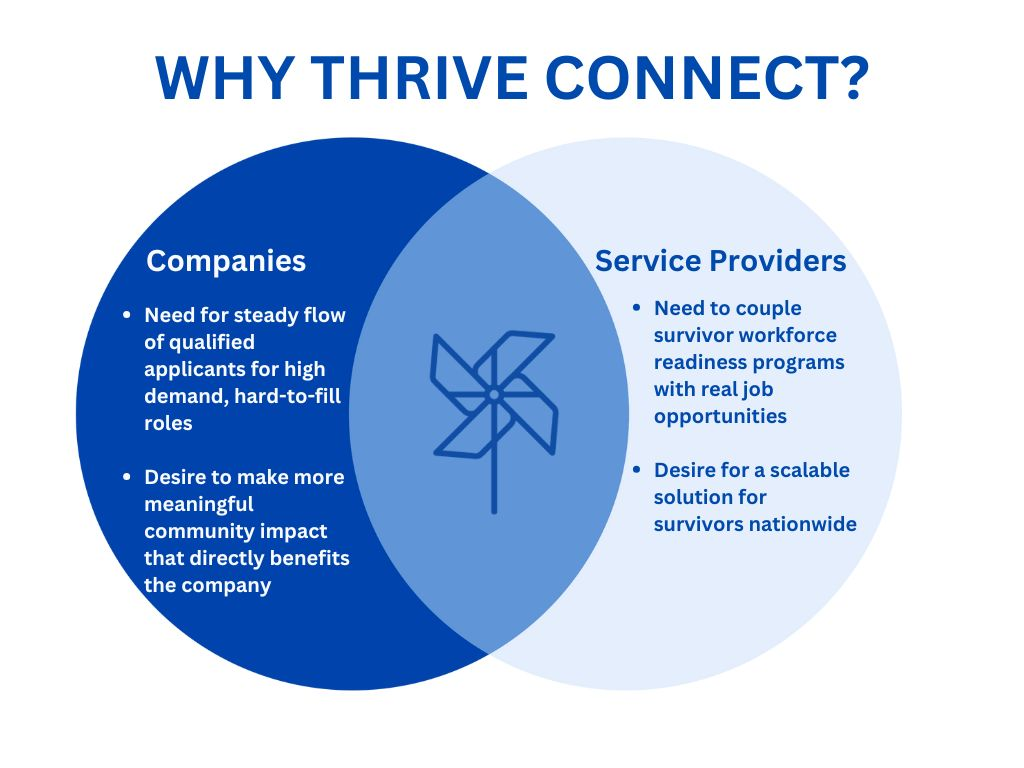
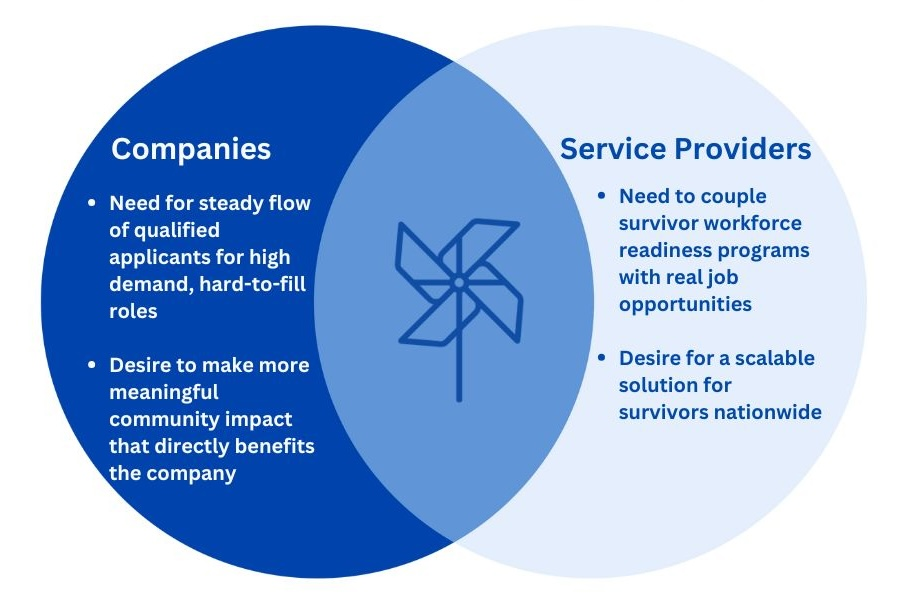
Updates to order of layout

diff --git a/src/pages/HomePage.tsx b/src/pages/HomePage.tsx
@@ -182,6 +182,68 @@ const HomePage: React.FC = () => {
         </div>
       </section>
 
+      {/* Value Prop Diagram Statement Section */}
+      <section id="valueprop" className="py-20 bg-gray-50">
+        <div className="container mx-auto px-4 md:px-6">
+          <motion.div 
+            className="max-w-4xl mx-auto text-center"
+            initial={{ opacity: 0, y: 20 }}
+            whileInView={{ opacity: 1, y: 0 }}
+            viewport={{ once: true, amount: 0.3 }}
+            transition={{ duration: 0.7 }}
+          >
+            <h2 className="text-3xl md:text-4xl font-bold mb-8 bg-gradient-to-r from-primary-600 to-secondary-500 bg-clip-text text-transparent">
+              Why Thrive Connect?
+            </h2>
+            <div className="flex items-center justify-center">
+              <img src={VennDiagram} alt="Thrive Connect Venn Diagram" style={{maxWidth:"500px"}}/>
+            </div>
+          </motion.div>
+        </div>
+      </section>
+
+      {/* Collective Impact Initiative Section */}
+      <section className="py-20 bg-white">
+        <div className="container mx-auto px-4 md:px-6">
+          <div className="max-w-4xl mx-auto">
+            <motion.div
+              initial={{ opacity: 0, y: 20 }}
+              whileInView={{ opacity: 1, y: 0 }}
+              viewport={{ once: true, amount: 0.3 }}
+              transition={{ duration: 0.7 }}
+              className="text-center mb-12"
+            >
+              <h2 className="text-3xl md:text-4xl font-bold mb-6 bg-gradient-to-r from-primary-600 to-secondary-500 bg-clip-text text-transparent">
+                Collective Impact Initiative
+              </h2>
+            </motion.div>
+
+            <motion.div
+              className="bg-gray-50 rounded-xl p-8 shadow-md"
+              initial={{ opacity: 0, y: 20 }}
+              whileInView={{ opacity: 1, y: 0 }}
+              viewport={{ once: true, amount: 0.3 }}
+              transition={{ duration: 0.7, delay: 0.2 }}
+            >
+              <p className="text-gray-600 text-lg leading-relaxed mb-6">
+                Our Collective Impact Initiative brings together leading nonprofit organizations, corporate partners, and technology solutions to create a comprehensive ecosystem for survivor employment. By combining our unique strengths and expertise, we're addressing the complex challenges that survivors face when transitioning to meaningful careers.
+              </p>
+              
+              <p className="text-gray-600 text-lg leading-relaxed mb-6">
+                This collaborative approach ensures that survivors receive holistic support - from initial job readiness training through long-term career advancement - while providing companies with the framework and resources they need to connect successfully with non-traditional candidates.
+              </p>
+
+              <div className="bg-primary-50 rounded-lg p-6">
+                <h3 className="text-xl font-bold text-primary-800 mb-3">Coming Soon</h3>
+                <p className="text-primary-700">
+                  We're currently developing comprehensive metrics and milestones to track our collective impact. Future updates will include detailed goals, success stories, and opportunities for additional investment and partnership. Stay tuned for exciting developments as we launch our pilot program in 2025.
+                </p>
+              </div>
+            </motion.div>
+          </div>
+        </div>
+      </section>
+
       {/* About Us - Backbone Organizations Section */}
       <section id="about" className="py-20 bg-gray-50">
         <div className="container mx-auto px-4 md:px-6">
@@ -242,7 +304,7 @@ const HomePage: React.FC = () => {
         </div>
       </section>
 
-             {/* Corporate Partners Section */}
+      {/* Corporate Partners Section */}
       <section className="py-20 bg-white">
         <div className="container mx-auto px-4 md:px-6">
           <motion.div
@@ -261,9 +323,6 @@ const HomePage: React.FC = () => {
             <p className="text-gray-600 text-lg max-w-3xl mx-auto">
               Forward-thinking companies committed to creating meaningful career opportunities for survivors.
             </p>
-             <div className="flex items-center justify-center mb-4">
-              <img src={VennDiagram} alt="Thrive Connect Venn Diagram" style={{maxWidth:"500px"}}/>
-            </div>
           </motion.div>
            {/* <div className="grid grid-cols-1 lg:grid-cols-3 gap-8">
             {corporatePartners.map((org, index) => (
@@ -325,47 +384,7 @@ const HomePage: React.FC = () => {
         </div>
       </section>
 
-      {/* Collective Impact Initiative Section */}
-      <section className="py-20 bg-white">
-        <div className="container mx-auto px-4 md:px-6">
-          <div className="max-w-4xl mx-auto">
-            <motion.div
-              initial={{ opacity: 0, y: 20 }}
-              whileInView={{ opacity: 1, y: 0 }}
-              viewport={{ once: true, amount: 0.3 }}
-              transition={{ duration: 0.7 }}
-              className="text-center mb-12"
-            >
-              <h2 className="text-3xl md:text-4xl font-bold mb-6 bg-gradient-to-r from-primary-600 to-secondary-500 bg-clip-text text-transparent">
-                Collective Impact Initiative
-              </h2>
-            </motion.div>
-
-            <motion.div
-              className="bg-gray-50 rounded-xl p-8 shadow-md"
-              initial={{ opacity: 0, y: 20 }}
-              whileInView={{ opacity: 1, y: 0 }}
-              viewport={{ once: true, amount: 0.3 }}
-              transition={{ duration: 0.7, delay: 0.2 }}
-            >
-              <p className="text-gray-600 text-lg leading-relaxed mb-6">
-                Our Collective Impact Initiative brings together leading nonprofit organizations, corporate partners, and technology solutions to create a comprehensive ecosystem for survivor employment. By combining our unique strengths and expertise, we're addressing the complex challenges that survivors face when transitioning to meaningful careers.
-              </p>
-              
-              <p className="text-gray-600 text-lg leading-relaxed mb-6">
-                This collaborative approach ensures that survivors receive holistic support - from initial job readiness training through long-term career advancement - while providing companies with the framework and resources they need to connect successfully with non-traditional candidates.
-              </p>
-
-              <div className="bg-primary-50 rounded-lg p-6">
-                <h3 className="text-xl font-bold text-primary-800 mb-3">Coming Soon</h3>
-                <p className="text-primary-700">
-                  We're currently developing comprehensive metrics and milestones to track our collective impact. Future updates will include detailed goals, success stories, and opportunities for additional investment and partnership. Stay tuned for exciting developments as we launch our pilot program in 2025.
-                </p>
-              </div>
-            </motion.div>
-          </div>
-        </div>
-      </section>
+      
 
       {/* Partners - Funding Partners Section */}
       <section id="partners" className="py-20 bg-gray-50">
